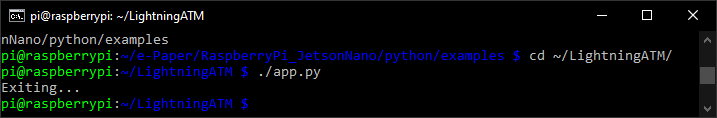
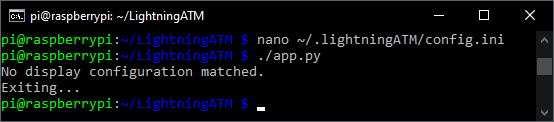
Makes camera function optional
Expands the config.ini by asking whether a camera is available

diff --git a/app.py b/app.py
@@ -111,12 +111,13 @@ def button_pushed():
 
         lnurlproxy = config.conf["lnurl"]["lnurlproxy"]
         activewallet = config.conf["atm"]["activewallet"]
+        camera = config.conf["atm"]["camera"]
         # Determine if LNURL Withdrawls are possible
         if lnurlproxy == "active" or activewallet == "lntxbot":
-            # 1. Ask if wallet supports LNURL
+            # 1. Ask if wallet supports LNURL, if camera available
             # 2. Offer to cancel and switch to normal scan
             # 3. Process payment
-            if activewallet == "lntxbot":
+            if activewallet == "lntxbot" and camera == True:
                 display.update_lnurl_cancel_notice()
                 time.sleep(5)
                 if config.PUSHES == 1:
@@ -135,6 +136,14 @@ def button_pushed():
                     softreset()
                     return
 
+            # If no camera is available, process LNURL directly
+            if activewallet == "lntxbot":
+                # Process LNURL
+                logger.info("LNURL process stared")
+                lntxbot.process_using_lnurl(config.SATS)
+                softreset()
+                return
+            
             if lnurlproxy == "active":
                 display.update_lnurl_cancel_notice()
                 time.sleep(5)
@@ -483,7 +492,7 @@ if __name__ == "__main__":
         except KeyboardInterrupt:
             display.update_shutdown_screen()
             logger.info("Application finished (Keyboard Interrupt)")
-            sys.exit("Manually Interrupted")
+            sys.exit(" Manually Interrupted")
         except Exception:
             logger.exception("Oh no, something bad happened! Restarting...")
             os.execv("/home/pi/LightningATM/app.py", [""])

diff --git a/docs/guide/we_need_your_help.md b/docs/guide/we_need_your_help.md
@@ -1,24 +1,48 @@
-## Would you like to help test the new version? 📖🧐
+## Would you like to help test the new version? 📜🧐
 
 With this update comes a change of the GPIO inputs and outputs. This makes the inputs less sensitive to EMI interference that could lead to unwanted pulses. So if you had sporadic problems with your ATM, you should definitely try this update.
 
 In addition, the function of a lockout relay for the coin acceptor was also implemented with the update. A useful function that one or the other has certainly wished for after the coin impulses were lost or the coin value was incorrectly recognized. A detailed documentation can be found in the new chapter [option: lockout relay](/docs/guide/relay.md).
 
+Also coming with this update is the option to enable or disable a camera. This has the advantage that you don't have to edit the app.py file to get rid of the LNURL query display, if you don't have a camera or a button. The option to set different languages will be added later. The implementation will take place in the next update.
+
+And finally, as a bit of service, the ATM briefly shows the Out of Service display once when it starts up.
+
 To participate, you must update your AMT software once with this new version. Don't worry, we have written a step-by-step instructions for this that really anyone can use and all your configuration data such as wallet and settings will be retained. You can easily undo the whole thing afterwards
 
 --- 
 
-### 1. Update to the new version
+### 1. Expand the config.ini
 
-Log into the RPi and then stop the ATM service once, make a backup from directory LightningATM, clone the new Github to "temp", sync once from "temp" to "LightningAMT" and then delete the "temp" directory that is no longer needed.
+Because we are also expanding the config.ini with this update, we unfortunately have to expand config.ini manually, otherwise we get an error message when starting the ATM. Expanding is not difficult and does not have to be undone later. First we log in again via SSH and stop the LightningATM service and call up the config.ini.
 
     $ sudo systemctl stop LightningATM.service
+    $ nano ~/.lightningATM/config.ini
+    
+Then we add the following text between `centname = cent` and `# Set the Fee in %`
+
+    # Set language: "en", "de", "fr", "it", "es", "pt", "tr" currently available 
+    # Code 2 from https://www.science.co.il/language/Codes.php
+    language = en
+
+    # Do you have a camera? "no" or "yes"
+    camera = no
+    
+<img src="../pictures/we_need_your_help_config.ini.png" width="600">
+
+- When you finshed with changings in the config.ini, save and exit the editor: `CTRL+x -> y -> ENTER`
+- `Help:` If you want to copy and paste the text, take the text to the clipboard and then place the cursor where you want to paste the text and right-click to paste. But important is just `language = en` and `camera = no`.
+
+### 2. Update to the new version
+
+Make a backup from directory LightningATM, clone the new Github to "temp", sync once from "temp" to "LightningAMT" and then delete the "temp" directory that is no longer needed.
+
     $ mv LightningATM LightningATM_Backup
     $ git clone --branch master https://github.com/21isenough/LightningATM.git temp
     $ rsync -a temp/ LightningATM/
     $ sudo rm -r temp
    
-### 2. Start and test the version
+### 3. Start and test the version
 
     $ cd LightningATM
     $ ./app.py
@@ -27,7 +51,7 @@ Log into the RPi and then stop the ATM service once, make a backup from director
 - The ATM has started and you can use it normally or test the functions.
 - Stop the ATM with `CTRL+C`
 
-### 3. If you don't like this version and want to get rid of it 
+### 4. If you don't like this version and want to get rid of it 
 
 Make the backup the major version again and then delete the backup.
 
@@ -38,7 +62,7 @@ Make the backup the major version again and then delete the backup.
 - Everthing should now be as befor. Even the wallat data.
 - Check if you have set a temporary button and reset it with `payoutdelay = 12` in the `config.ini`
 
-### 4. Final step
+### 5. Final step
 
 Restart the LightningATM service
 

diff --git a/README.md b/README.md
@@ -21,7 +21,7 @@ Full Version             |  Pocket Version
 
 ### Installation guideline
 
-_Carry out the points step by step as described here. This is the quickest way to succeed._
+_Carry out the points step by step as described here. This is the quickest way to succeed._ 😊
 
 - [voltage converter](/docs/guide/voltage_converter.md)
 - [coin validator](/docs/guide/coin_validator.md)
@@ -29,7 +29,6 @@ _Carry out the points step by step as described here. This is the quickest way t
 - [sd card and wifi](/docs/guide/sdcard_and_wifi.md)
 - [display](/docs/guide/display.md)
 - [edit config.ini](/docs/guide/edit_config.md)
-- [edit app.py](/docs/guide/edit_app.md)
 - [debugging and tmux](/docs/guide/tmux_monitoring.md)
 - [autostart](/docs/guide/autostart.md)
 - [aditional information and tips](/docs/guide/information_and_tips.md)
@@ -38,7 +37,9 @@ _Carry out the points step by step as described here. This is the quickest way t
 - [option: lockout relay](/docs/guide/relay.md)
 - [option: RPi image from scratch](/docs/guide/add_on_zero2.md)
 
-A comprehensive guide on how to setup the LightningATM can be found here https://docs.lightningatm.me. Also join the Telegram group of LightningATM builders here https://t.me/lightningatm_building or contact 21isenough on Twitter (https://twitter.com/21isenough).
+If you want to update your ATM version, see this guide: [Update](/docs/guide/we_need_your_help.md)
+
+More information of how to setup the LightningATM can be found here https://docs.lightningatm.me. Also join the Telegram group of LightningATM builders here https://t.me/lightningatm_building or contact 21isenough on Twitter (https://twitter.com/21isenough).
 
 To see the Lightning ATM in action, check out this video [LightningATM in action](https://twitter.com/21isenough/status/1170808396955738114?s=20)
 

diff --git a/docs/guide/edit_config.md b/docs/guide/edit_config.md
@@ -11,14 +11,14 @@ $ cd ~/LightningATM/
 $ ./app.py
 ```
 
-- When you first start you will probably get an "Exiting.." message because the default display type is wrong. 
+- When you first start you will get an "No display configuration matched. Exiting...".
 
-<img src="../pictures/edit_config_first_call_exiting.png" width="600">
+<img src="../pictures/edit_config_first_call_exiting.png" width="500">
 
-- You can ignore the message. The config.ini has now been created in the background.
-- Now edit the config.ini as described in the next step.
+- The config.ini has now been created in the background.
+- Now edit the config.ini as described next step to set the display and other configurations.
 
-`Note:` If the display is correct, the process will not "Exiting..". You have to stop it with `CTRL+C`. After a short time, `Manually Interrupted` is shown in the terminal window.
+`Note:` If the display is already set correctly, the process will not "Exiting..". You have to stop it with `CTRL+C`. 
 
 ### Open the config.ini file
 
@@ -120,7 +120,7 @@ display ATM turned off!
 
 ---
 
-#### [display](/docs/guide/display.md)  ᐊ  previous | next  ᐅ  [edit_app](/docs/guide/edit_app.md)
+#### [display](/docs/guide/display.md)  ᐊ  previous | next  ᐅ  [debugging and tmux](/docs/guide/tmux_monitoring.md)
 
 
 

diff --git a/docs/guide/autostart.md b/docs/guide/autostart.md
@@ -1,6 +1,6 @@
-## Autostart
+## Autostart and start/stop the ATM
 
-######  Activate the Service:
+######  Install and activate the autostart service:
 
 ```
 $ cd ~/LightningATM
@@ -9,7 +9,9 @@ $ sudo systemctl enable LightningATM.service
 $ sudo reboot
 ```
 
-######  Other commands to control the service:
+- From now on the ATM will start automatically after booting.
+
+######  Commands to control the ATM:
 
 ```
 $ sudo systemctl status LightningATM.service
@@ -17,7 +19,8 @@ $ sudo systemctl stop LightningATM.service
 $ sudo systemctl start LightningATM.service
 ```
 
-- Note: From now on the ATM will start automatically after booting. If you want to observe the app.py in tmux, you should `stop` the "LightningATM.service" manually, bevor you start the app.py in the tmux. Don't forget to `start` the service again afterwards.
+- `Note:` When the autostart service is once installed and activated, you only need to "start" the ATM if you previously stopped the ATM.
+- `Note:` If you want to observe the app.py in tmux, you musst `stop` the "LightningATM.service" manually, bevor you start the app.py in the tmux. Then restart the ATM with the "start" command or simply restart the entire ATM afterwards by unplugging the power and plugging it back in.
 
 ---
 

diff --git a/docs/guide/tmux_monitoring.md b/docs/guide/tmux_monitoring.md
@@ -55,5 +55,5 @@ Two withdrawals were made here. Once 5 cents and once 1.60 euros (10 cents + 50 
 
 ---
 
-#### [edit_app](/docs/guide/edit_app.md)  ᐊ  previous | next  ᐅ  [autostart](/docs/guide/autostart.md)
+#### [edit_config](/docs/guide/edit_config.md)  ᐊ  previous | next  ᐅ  [autostart](/docs/guide/autostart.md)
 
